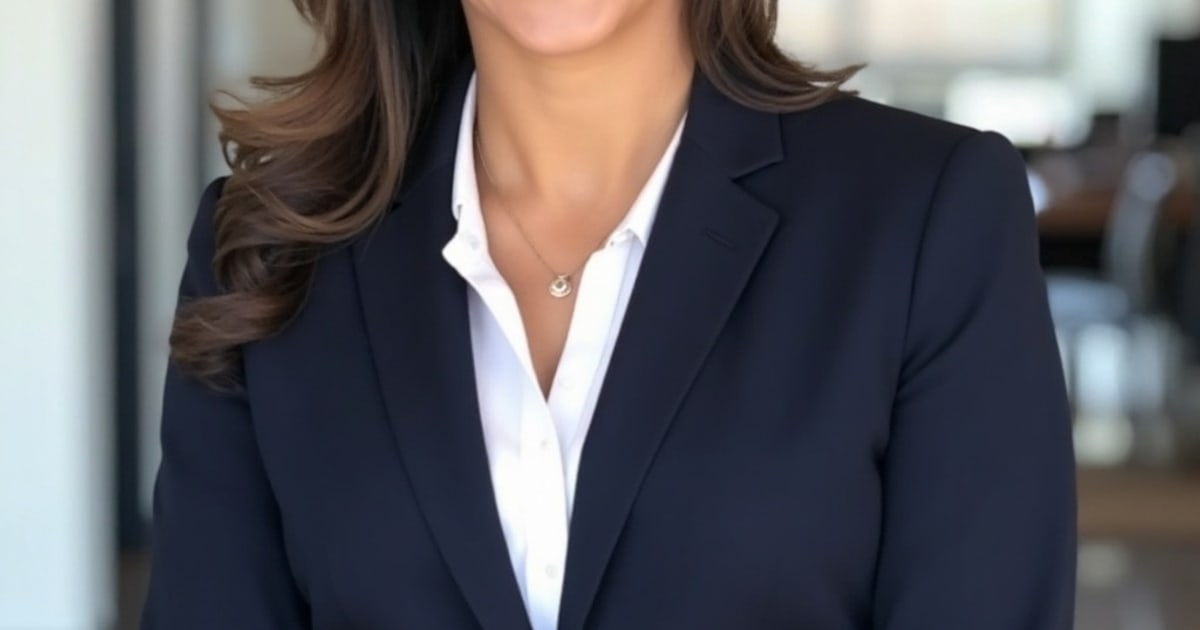
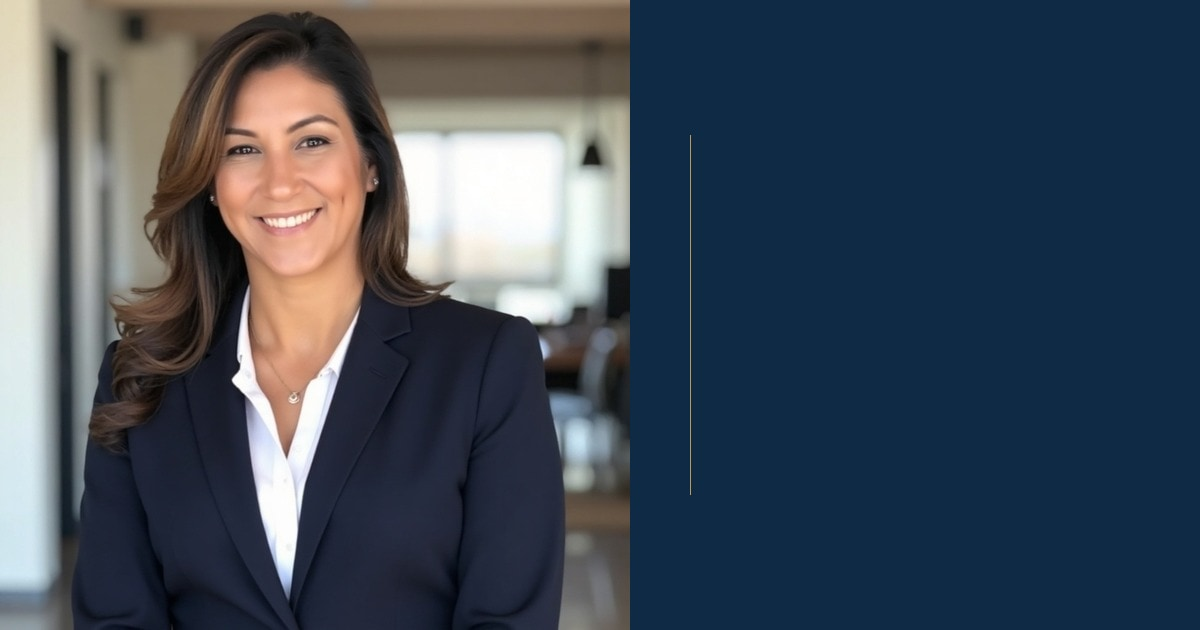
fix(MIA-SITE-CYCLE-7): live visual recovery — hero readability rebuild + real Mia photo
LIVE-FIRST RECOVERY: Fixed user-reported defects on miasanabriarealtor.trueidea.com
that prior cycle 6 closeout claimed shipped but live screenshots (Phase 0 baseline at
/tmp/mia-cycle7-live-defect-before/) demonstrably contradicted.

ROOT CAUSE — hero illegibility:
- Cycle-5/6 used a multi-stop text-shadow halo stack with rgba(15,42,68,0.95) navy
  tint that BLED INTO bright tropical pixels rather than darkening them, producing
  a glowing illegible smear on every image-mode hero (home, about, markets,
  buyers, sellers, valuation, contact, all 13 market detail pages).
- Cinzel font was loaded only at weights 500 and 600, so font-bold (700) silently
  fell back to synthesized weight, weakening H1 strokes.

FIX (cycle 7):
- Hero.tsx rebuilt with three deterministic overlay layers (mood + content-scrim +
  cta-scrim), neutral rgba(0,0,0,…) drop shadow, font-bold (with 700 properly
  loaded), and tightened blur radius so AA edges stay crisp.
- Content scrim is left-edge-darkest LTR gradient on desktop, full-coverage scrim
  on mobile — text contrast holds across viewports without killing the cinematic
  photo on the right.
- CTA primary brass-400 keeps shadow-lift; secondary outline gets bg-navy-900/40
  fill so the outline reads regardless of underlying photo brightness.
- New audit sentinels: brand.heroNoNavyGlowHalo (catches regression to navy-tint
  text-shadow) + brand.heroOverlayLayers (verifies all three overlays present).

MIA PROFILE IMAGE:
[…]

diff --git a/src/components/Hero.tsx b/src/components/Hero.tsx
@@ -24,10 +24,12 @@ export function Hero({
   const useImage = background === "image" && imageSrc;
   return (
     <section
+      data-component="hero"
+      data-variant={background}
       className={
         background === "cream"
           ? "relative overflow-hidden bg-cream-100 text-navy-800"
-          : "relative overflow-hidden bg-navy-800 text-cream-100"
+          : "relative overflow-hidden bg-navy-900 text-cream-100"
       }
     >
       {useImage ? (
@@ -40,23 +42,34 @@ export function Hero({
             sizes="100vw"
             className="object-cover object-center"
           />
-          {/* Cycle-5 base overlay (preserved): 35/65/35 vertical band.
-              Cycle-6 contrast hardening (Lane 7 F1+F2): adds a content-band darkening
-              layer focused on the text rendering area so eyebrow + H1 + sub clear AA
-              regardless of source-image brightness, without touching the cycle-5 H1 shadow stack. */}
+          {/* Cycle 7 hero readability rebuild. Three deterministic overlay layers
+              replace the cycle-5/6 multi-stop text-shadow halo stack which produced
+              a glowing illegible smear over bright tropical imagery.
+              A: full-bleed mood gradient (preserves twilight band feel).
+              B: left-edge content scrim where eyebrow/H1/sub live on desktop; on
+                 mobile the scrim covers the full width because text is full-width.
+              C: bottom CTA scrim — focused darkening behind the CTA row so brass
+                 and outline buttons stay legible regardless of source-image brightness. */}
           <div
             aria-hidden
-            className="absolute inset-0 bg-gradient-to-b from-navy-900/35 via-navy-900/65 to-navy-900/35"
+            data-hero-overlay="mood"
+            className="absolute inset-0 bg-gradient-to-b from-navy-900/55 via-navy-900/40 to-navy-900/70"
           />
           <div
             aria-hidden
-            className="absolute inset-x-0 bottom-0 top-1/4 bg-gradient-to-b from-transparent via-navy-900/35 to-navy-900/55"
+            data-hero-overlay="content-scrim"
+            className="absolute inset-0 bg-gradient-to-r from-navy-900 via-navy-900/85 to-navy-900/40 sm:from-navy-900/95 sm:via-navy-900/70 sm:to-navy-900/20"
+          />
+          <div
+            aria-hidden
+            data-hero-overlay="cta-scrim"
+            className="absolute inset-x-0 bottom-0 h-2/5 bg-gradient-to-t from-navy-900/80 via-navy-900/40 to-transparent"
           />
         </>
       ) : null}
       <div
         aria-hidden
-        className="pointer-events-none absolute inset-0 opacity-30 [background:radial-gradient(60%_60%_at_50%_30%,rgba(184,155,94,0.18),transparent_70%)]"
+        className="pointer-events-none absolute inset-0 opacity-25 [background:radial-gradient(60%_60%_at_30%_40%,rgba(184,155,94,0.2),transparent_70%)]"
       />
       <div className="relative mx-auto max-w-7xl px-4 py-28 sm:py-32 lg:px-8 lg:py-40">
         {eyebrow ? (
@@ -65,18 +78,30 @@ export function Hero({
               aria-hidden
               className="block h-px w-10 bg-gradient-to-r from-transparent via-brass-300 to-transparent"
             />
-            <p className="mt-5 font-display text-xs uppercase tracking-[0.4em] text-brass-300">
+            <p
+              data-hero-eyebrow
+              className={
+                background === "cream"
+                  ? "mt-5 font-display text-xs uppercase tracking-[0.4em] text-brass-700"
+                  : useImage
+                    ? "mt-5 font-display text-xs uppercase tracking-[0.4em] text-brass-200 [text-shadow:0_1px_3px_rgba(0,0,0,0.6)]"
+                    : "mt-5 font-display text-xs uppercase tracking-[0.4em] text-brass-300"
+              }
+            >
               {eyebrow}
             </p>
           </>
         ) : null}
         <h1
+          data-hero-heading
           className={
             background === "cream"
               ? "mt-5 max-w-4xl text-balance font-display text-4xl font-semibold leading-[1.05] tracking-tight text-navy-800 sm:text-5xl lg:text-6xl [text-wrap:balance]"
               : useImage
-                ? // Cycle-5 §3 principal-authorized H1-visibility: stronger weight + multi-stop shadow stack.
-                  "mt-5 max-w-4xl text-balance font-display text-4xl font-bold leading-[1.05] tracking-tight text-cream-50 sm:text-5xl lg:text-6xl [text-wrap:balance] [text-shadow:0_4px_24px_rgba(15,42,68,0.95),0_2px_8px_rgba(0,0,0,0.85),0_1px_2px_rgba(0,0,0,0.6)]"
+                ? // Cycle 7: tight drop-shadow, no blur halo. The content scrim does the
+                  // contrast lifting; the shadow is AA insurance against bright pixels
+                  // bleeding through the scrim's translucent right edge.
+                  "mt-5 max-w-3xl text-balance font-display text-4xl font-bold leading-[1.05] tracking-tight text-cream-50 sm:text-5xl lg:text-6xl [text-wrap:balance] [text-shadow:0_2px_3px_rgba(0,0,0,0.8)]"
                 : "mt-5 max-w-4xl text-balance font-display text-4xl font-semibold leading-[1.05] tracking-tight text-cream-50 sm:text-5xl lg:text-6xl [text-wrap:balance]"
           }
         >
@@ -84,11 +109,12 @@ export function Hero({
         </h1>
         {sub ? (
           <p
+            data-hero-sub
             className={
               background === "cream"
                 ? "mt-6 max-w-2xl text-lg text-navy-800/80 [text-wrap:pretty] sm:text-xl"
                 : useImage
-                  ? "mt-6 max-w-2xl text-lg text-cream-200/95 [text-wrap:pretty] sm:text-xl [text-shadow:0_1px_12px_rgba(15,42,68,0.8)]"
+                  ? "mt-6 max-w-2xl text-lg text-cream-100 [text-wrap:pretty] sm:text-xl [text-shadow:0_1px_2px_rgba(0,0,0,0.7)]"
                   : "mt-6 max-w-2xl text-lg text-cream-200/90 [text-wrap:pretty] sm:text-xl"
             }
           >
@@ -100,7 +126,8 @@ export function Hero({
             {ctaPrimary ? (
               <Link
                 href={ctaPrimary.href}
-                className="inline-flex items-center gap-2 rounded-full bg-brass-400 px-8 py-3.5 text-sm font-semibold tracking-wide text-navy-900 transition-colors hover:bg-brass-300"
+                data-hero-cta="primary"
+                className="inline-flex items-center gap-2 rounded-full bg-brass-400 px-8 py-3.5 text-sm font-semibold tracking-wide text-navy-900 shadow-[0_8px_24px_-12px_rgba(0,0,0,0.6)] transition-colors hover:bg-brass-300 focus-visible:outline focus-visible:outline-2 focus-visible:outline-offset-2 focus-visible:outline-brass-200"
               >
                 {ctaPrimary.label}
                 <ArrowRight className="h-4 w-4" aria-hidden />
@@ -109,7 +136,12 @@ export function Hero({
             {ctaSecondary ? (
               <Link
                 href={ctaSecondary.href}
-                className="inline-flex items-center gap-2 rounded-full border border-cream-200/40 px-7 py-3 text-sm font-medium tracking-wide text-cream-100 transition-colors hover:border-brass-300 hover:text-brass-300"
+                data-hero-cta="secondary"
+                className={
+                  background === "cream"
+                    ? "inline-flex items-center gap-2 rounded-full border border-navy-800/30 bg-cream-50/80 px-7 py-3 text-sm font-medium tracking-wide text-navy-800 transition-colors hover:border-brass-400 hover:text-brass-700 focus-visible:outline focus-visible:outline-2 focus-visible:outline-offset-2 focus-visible:outline-brass-400"
+                    : "inline-flex items-center gap-2 rounded-full border border-cream-100/70 bg-navy-900/40 px-7 py-3 text-sm font-medium tracking-wide text-cream-50 transition-colors hover:border-brass-300 hover:text-brass-200 focus-visible:outline focus-visible:outline-2 focus-visible:outline-offset-2 focus-visible:outline-brass-300"
+                }
               >
                 {ctaSecondary.label}
               </Link>

diff --git a/scripts/audit-brand-consistency.ts b/scripts/audit-brand-consistency.ts
@@ -313,6 +313,37 @@ async function checkHeroH1ContrastTokens(): Promise<CheckResult[]> {
         ? "text-shadow + overlay gradient + bold weight all present in Hero.tsx"
         : `missing tokens (text-shadow:${hasTextShadow} overlay:${hasOverlay} bold:${hasFontWeight})`,
   });
+
+  // Cycle-7 readability hardening: detect regression to the broken cycle-5/6 navy-glow halo
+  // text-shadow stack which produced an illegible smear over bright tropical imagery.
+  // The stack used a navy-tinted shadow rgba(15,42,68,...) that bled into bright pixels
+  // rather than darkening them. Cycle-7 uses neutral rgba(0,0,0,...) shadows and a
+  // three-layer overlay system (mood + content-scrim + cta-scrim).
+  const hasNavyGlowAntiPattern = /\[text-shadow:[^\]]*rgba\(15,\s*42,\s*68/.test(heroSrc);
+  results.push({
+    id: "brand.heroNoNavyGlowHalo",
+    category: "Hero Discipline",
+    description: "Hero text-shadow uses neutral rgba(0,0,0,…) — not navy-tint rgba(15,42,68,…) which produced cycle-5/6 halo smear",
+    status: hasNavyGlowAntiPattern ? "FAIL" : "PASS",
+    evidence: hasNavyGlowAntiPattern
+      ? "navy-glow halo text-shadow detected — regression to cycle-5/6 broken pattern"
+      : "no navy-tint text-shadow halo (neutral rgba(0,0,0,…) used)",
+  });
+
+  // Cycle-7 three-layer overlay sentinel: mood + content-scrim + cta-scrim must all exist.
+  const overlayLayers = (heroSrc.match(/data-hero-overlay="(mood|content-scrim|cta-scrim)"/g) ?? [])
+    .map((m) => m.replace(/.*?="([^"]+)"/, "$1"));
+  const expectedLayers = ["mood", "content-scrim", "cta-scrim"];
+  const missingLayers = expectedLayers.filter((l) => !overlayLayers.includes(l));
+  results.push({
+    id: "brand.heroOverlayLayers",
+    category: "Hero Discipline",
+    description: "Hero image-mode renders three overlay layers (mood + content-scrim + cta-scrim) per cycle-7 readability spec",
+    status: missingLayers.length === 0 ? "PASS" : "WARN",
+    evidence: missingLayers.length === 0
+      ? `all 3 overlay layers present (${overlayLayers.join(", ")})`
+      : `missing overlay layers: ${missingLayers.join(", ")}`,
+  });
   return results;
 }
 

diff --git a/src/app/about/page.tsx b/src/app/about/page.tsx
@@ -80,10 +80,10 @@ export default function AboutPage() {
                 aria-hidden
                 className="absolute inset-0 translate-x-3 translate-y-3 rounded-sm bg-brass-100 -z-10"
               />
-              <div className="relative aspect-[4/5] w-full overflow-hidden rounded-sm border border-brass-300/60 shadow-card">
+              <div className="relative aspect-[4/5] w-full overflow-hidden rounded-sm border border-brass-300/60 shadow-luxury">
                 <Image
-                  src="/mia-headshot.jpg"
-                  alt="Mia Sanabria, REALTOR® with LPT Realty"
+                  src="/mia-profile.jpg"
+                  alt="Mia Sanabria, REALTOR® with LPT Realty — Fort Lauderdale luxury and waterfront real estate"
                   fill
                   sizes="(max-width: 1024px) 100vw, 40vw"
                   className="object-cover object-top"

diff --git a/src/app/layout.tsx b/src/app/layout.tsx
@@ -9,7 +9,7 @@ import "./globals.css";
 
 const cinzel = Cinzel({
   subsets: ["latin"],
-  weight: ["500", "600"],
+  weight: ["500", "600", "700"],
   display: "swap",
   variable: "--font-cinzel",
 });

diff --git a/reports/audit-brand-consistency.md b/reports/audit-brand-consistency.md
@@ -1,8 +1,8 @@
 # Audit Brand Consistency Report
 
-**Generated:** 2026-05-09T01:38:05.697Z
+**Generated:** 2026-05-09T14:08:57.242Z
 
-**Summary:** 9 PASS · 0 WARN · 0 FAIL · 0 SKIP
+**Summary:** 11 PASS · 0 WARN · 0 FAIL · 0 SKIP
 
 ## Results by category
 
@@ -48,6 +48,8 @@
 | ID | Status | Description | Evidence |
 |---|:-:|---|---|
 | `brand.heroH1ContrastTokens` | ✅ | Hero image-mode H1 retains text-shadow + dark-overlay gradient + bold font weight | text-shadow + overlay gradient + bold weight all present in Hero.tsx |
+| `brand.heroNoNavyGlowHalo` | ✅ | Hero text-shadow uses neutral rgba(0,0,0,…) — not navy-tint rgba(15,42,68,…) which produced cycle-5/6 halo smear | no navy-tint text-shadow halo (neutral rgba(0,0,0,…) used) |
+| `brand.heroOverlayLayers` | ✅ | Hero image-mode renders three overlay layers (mood + content-scrim + cta-scrim) per cycle-7 readability spec | all 3 overlay layers present (mood, content-scrim, cta-scrim) |
 
 ### Email Consistency
 

diff --git a/reports/audit-completeness.md b/reports/audit-completeness.md
@@ -1,6 +1,6 @@
 # Audit Completeness Report
 
-**Generated:** 2026-05-09T01:38:05.542Z
+**Generated:** 2026-05-09T14:08:21.914Z
 
 **Summary:** 14 PASS · 2 WARN · 0 FAIL · 0 SKIP
 
@@ -120,7 +120,7 @@
     },
     {
       "route": "/about/",
-      "img": "/mia-headshot.jpg",
+      "img": "/mia-profile.jpg",
       "problem": "missing width/height"
     },
     {

diff --git a/reports/audit-images.md b/reports/audit-images.md
@@ -1,6 +1,6 @@
 # Audit Images Report
 
-**Generated:** 2026-05-09T01:38:05.632Z
+**Generated:** 2026-05-09T14:08:22.002Z
 
 **Summary:** 10 PASS · 0 WARN · 0 FAIL · 0 SKIP
 
